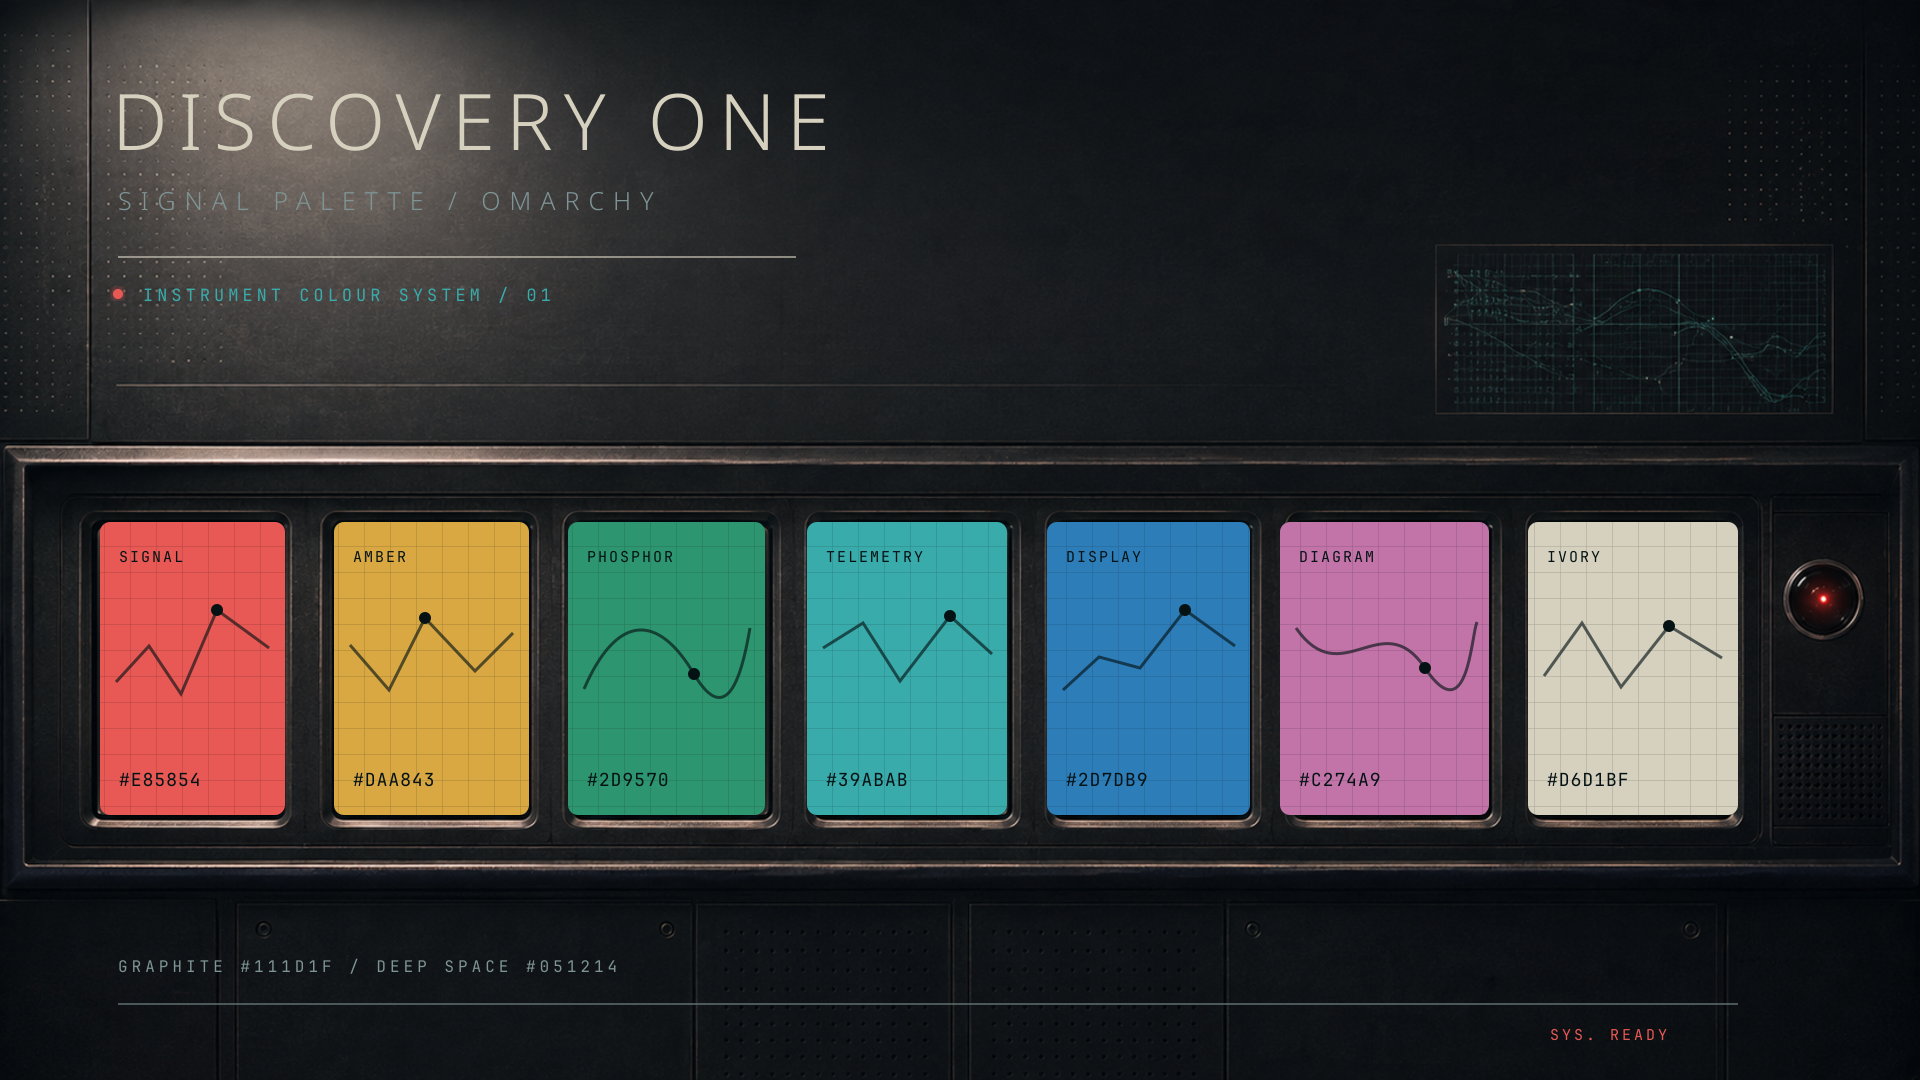
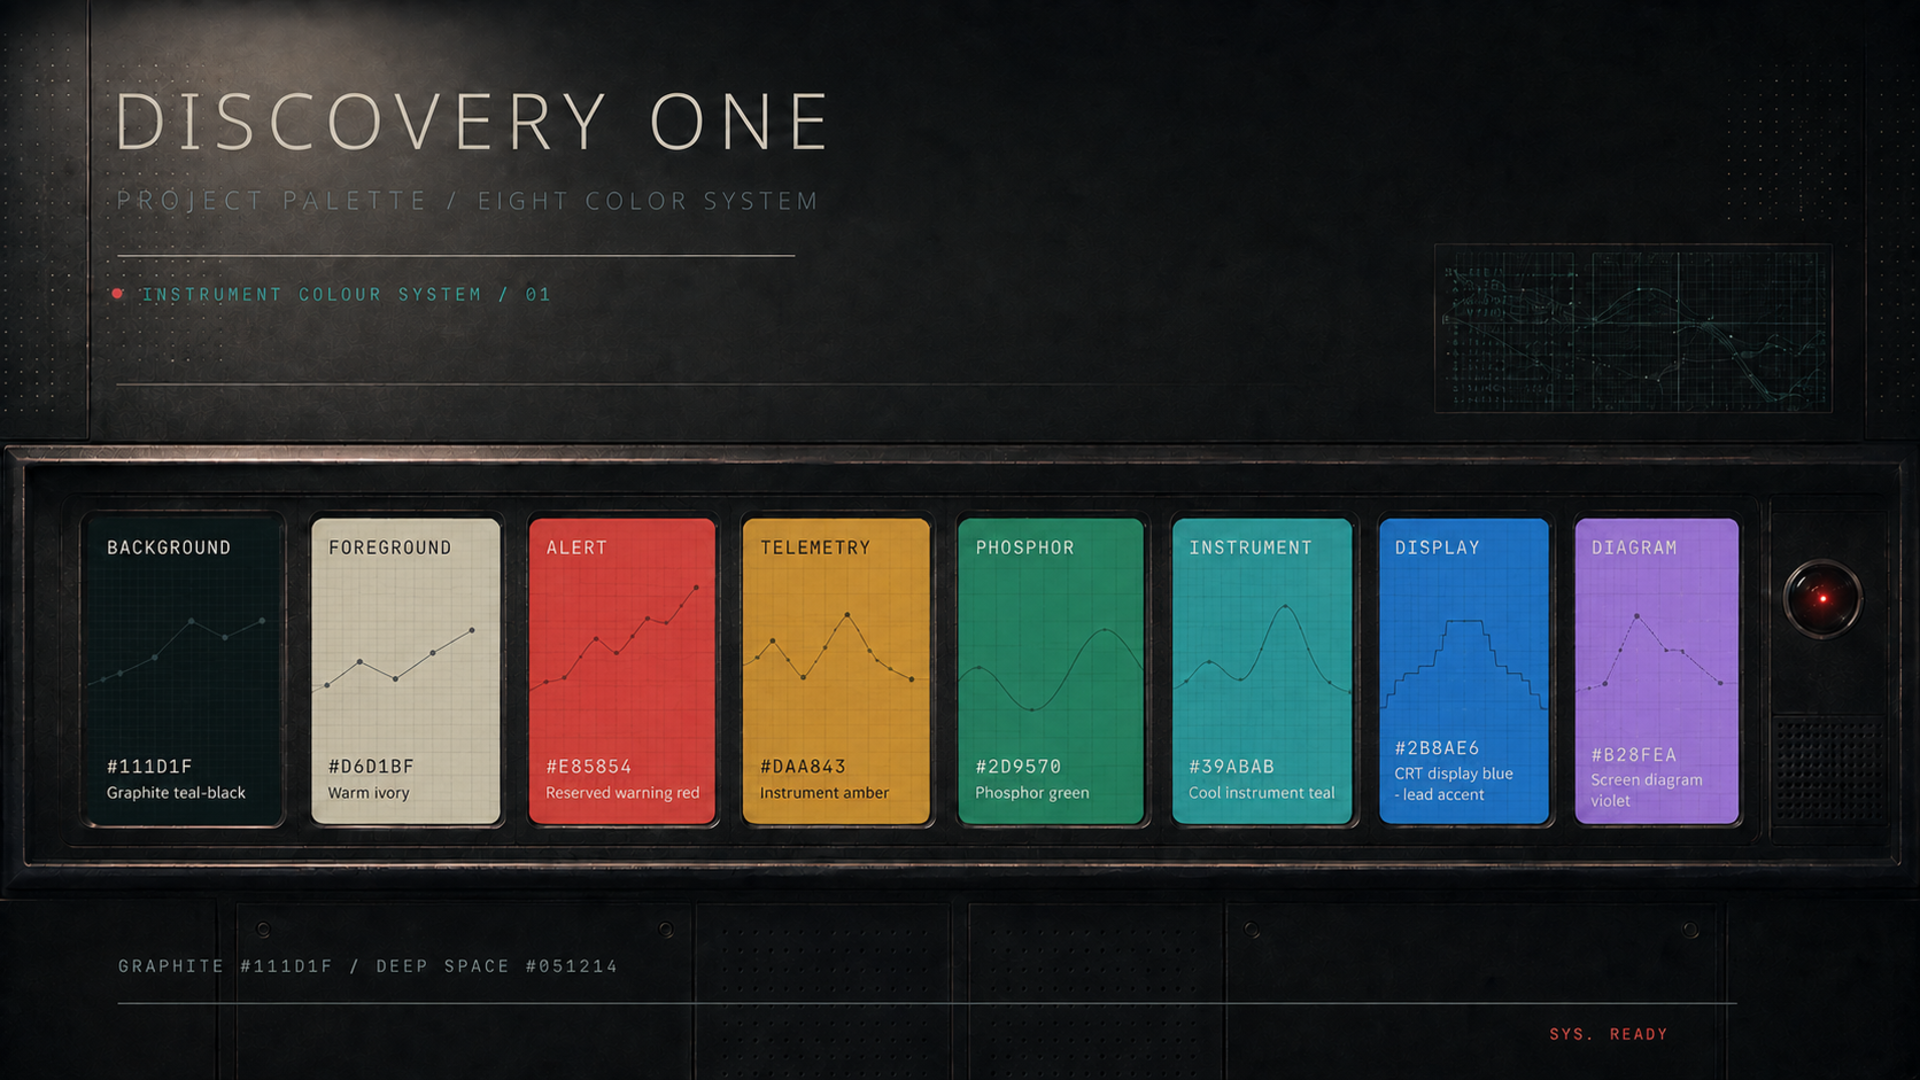
Refine Discovery One spacecraft instrument theme

diff --git a/vencord.theme.css b/vencord.theme.css
@@ -29,6 +29,16 @@ body {
     --window-control-size: 13px;
 
     --custom-dms-icon: hide;
+    --custom-dms-background: color;
+    --dms-background-color: radial-gradient(circle closest-side,
+        #f5f2e7 0 10%,
+        #ff847d 11% 21%,
+        #e85854 22% 36%,
+        #8f3432 37% 53%,
+        #551f1d 54% 70%,
+        #233538 71% 85%,
+        #6b7c7d 86% 94%,
+        #051214 95% 100%);
     --background-image: off;
     --transparency-tweaks: off;
     --remove-bg-layer: off;
@@ -67,7 +77,7 @@ body {
     --accent-2: #39abab;
     --accent-3: #39abab;
     --accent-4: #5ddae0;
-    --accent-5: #2d7db9;
+    --accent-5: #2b8ae6;
     --accent-new: #e85854;
     --mention: linear-gradient(to right, color-mix(in srgb, #daa843 16%, transparent) 40%, transparent);
     --mention-hover: linear-gradient(to right, color-mix(in srgb, #daa843 22%, transparent) 40%, transparent);
@@ -75,7 +85,7 @@ body {
     --online: #2d9570;
     --dnd: #e85854;
     --idle: #daa843;
-    --streaming: #c274a9;
+    --streaming: #b28fea;
     --offline: #6b7c7d;
 
     --text-normal: var(--text-3);
@@ -121,19 +131,19 @@ body {
     --green-5: color-mix(in srgb, #2d9570, #111d1f 34%);
     --blue-1: #5ddae0;
     --blue-2: #39abab;
-    --blue-3: #2d7db9;
-    --blue-4: color-mix(in srgb, #2d7db9, #111d1f 18%);
-    --blue-5: color-mix(in srgb, #2d7db9, #111d1f 34%);
+    --blue-3: #2b8ae6;
+    --blue-4: color-mix(in srgb, #2b8ae6, #111d1f 18%);
+    --blue-5: color-mix(in srgb, #2b8ae6, #111d1f 34%);
     --yellow-1: #f5c25f;
     --yellow-2: #daa843;
     --yellow-3: #daa843;
     --yellow-4: color-mix(in srgb, #daa843, #111d1f 18%);
     --yellow-5: color-mix(in srgb, #daa843, #111d1f 34%);
-    --purple-1: #ea9bc7;
-    --purple-2: #c274a9;
-    --purple-3: #c274a9;
-    --purple-4: color-mix(in srgb, #c274a9, #111d1f 18%);
-    --purple-5: color-mix(in srgb, #c274a9, #111d1f 34%);
+    --purple-1: #d4b8f6;
+    --purple-2: #b28fea;
+    --purple-3: #b28fea;
+    --purple-4: color-mix(in srgb, #b28fea, #111d1f 18%);
+    --purple-5: color-mix(in srgb, #b28fea, #111d1f 34%);
 }
 
 /* Compartmentalized spacecraft surfaces with a quiet telemetry grid in chat. */
@@ -169,21 +179,21 @@ body {
     background-color: #1a292c !important;
 }
 
-/* Channel telemetry: amber means unread, cyan marks the live channel. */
+/* Channel telemetry: violet means unread, cyan marks the live channel. */
 #channels [class*="modeUnread"] [class*="link__"] {
-    background: color-mix(in srgb, #daa843 8%, transparent) !important;
-    box-shadow: inset 2px 0 #daa843;
+    background: color-mix(in srgb, #b28fea 10%, transparent) !important;
+    box-shadow: inset 2px 0 #b28fea;
 }
 
 #channels [class*="modeUnread"] :is([class*="name__"], [class*="icon__"]),
 #channels a[data-list-item-id^="channels___"][class*="modeUnread"] :is([class*="name"], svg) {
-    color: #daa843 !important;
-    fill: #daa843 !important;
+    color: #b28fea !important;
+    fill: #b28fea !important;
     font-weight: 600 !important;
 }
 
 #channels [class*="modeUnread"] [class*="unread_"] {
-    background: #daa843 !important;
+    background: #b28fea !important;
 }
 
 #channels [class*="modeConnected"] [class*="link__"] {
@@ -211,9 +221,9 @@ body {
     opacity: 0;
 }
 
-/* Server telemetry: unread amber, active cyan, direct mentions red. */
+/* Server telemetry: unread violet, active cyan, direct mentions red. */
 [class*="guilds_"] [class*="pill_"] > span[class*="item_"] {
-    background: #daa843 !important;
+    background: #b28fea !important;
 }
 
 [class*="guilds_"] [class*="listItem_"]:has([aria-selected="true"]) [class*="pill_"] > span[class*="item_"] {
@@ -244,14 +254,14 @@ li[class*="mentioned"] {
 :is(div, li)[class*="replying"],
 [id^="chat-messages-"]:has([class*="repliedMessage_"]) {
     background: linear-gradient(90deg, color-mix(in srgb, #39abab 9%, #111d1f), #111d1f 72%) !important;
-    border-left: 2px solid #2d7db9 !important;
+    border-left: 2px solid #2b8ae6 !important;
 }
 
 /* Code reads as a separate instrument display, not another chat bubble. */
 [class*="markup_"] pre {
     background: #051214 !important;
     border: 1px solid color-mix(in srgb, #39abab 28%, transparent) !important;
-    border-left: 3px solid #2d7db9 !important;
+    border-left: 3px solid #2b8ae6 !important;
 }
 
 [class*="markup_"] pre code {

diff --git a/README.md b/README.md
@@ -5,6 +5,17 @@ futurism, and quiet unease of *2001: A Space Odyssey*.
 
 ![Discovery One preview](preview.png)
 
+![Discovery One theme artwork](assets/discovery-one-theme-artwork.png)
+
+## Drive unlock
+
+![Discovery One Plymouth drive unlock](preview-unlock.png)
+
+The matching disk-unlock screen follows Omarchy's standard Plymouth theme
+format. `unlock.png` supplies the centred transparent artwork, while Omarchy
+provides and recolours the password field, lock icon, bullets, and background
+from `colors.toml`.
+
 ## Character
 
 Graphite spacecraft panels, warm ivory text, cool instrument shadows, and one
@@ -30,18 +41,20 @@ theme.
 |---|---|---|
 | Background | `#111d1f` | Graphite teal-black |
 | Foreground | `#d6d1bf` | Warm ivory |
-| Signal | `#e85854` | HAL signal red |
+| Alert | `#e85854` | Reserved warning red |
 | Telemetry | `#daa843` | Instrument amber |
 | Phosphor | `#2d9570` | Phosphor green |
 | Instrument | `#39abab` | Cool instrument teal |
-| Display | `#2d7db9` | CRT display blue |
-| Diagram | `#c274a9` | Diagram magenta |
+| Display | `#2b8ae6` | CRT display blue — lead accent |
+| Diagram | `#b28fea` | Screen diagram violet |
 
 ## Included
 
 ![Discovery One cinematic wallpaper collection](assets/discovery-one-wallpapers-mosaic.png)
 
 - `colors.toml` — Omarchy colour definitions and ANSI terminal palette
+- `unlock.png` and `preview-unlock.png` — Plymouth drive-unlock artwork and
+  Omarchy switcher preview
 - `vencord.theme.css` — compact System24 spacecraft-instrument styling for Vencord/Vesktop
 - `icons.theme` — Yaru icon theme
 - `backgrounds/` — 24 curated 3840×1760 *2001* spacecraft, station, and
@@ -49,12 +62,25 @@ theme.
 - `DESIGN.md` — visual direction and role rules
 - `backgrounds/SOURCES.md` — wallpaper frame references
 
-Discovery One is intentionally quiet: red is reserved for focus and warning,
-while the wallpapers and window layout provide most of the depth.
+Discovery One is intentionally quiet: the display blue carries focus and active
+state, red is reserved for warnings alone, and the wallpapers and window layout
+provide most of the depth.
 
 The Discord stylesheet is applied automatically when the THPM Discord
 integration is enabled. Otherwise, copy `vencord.theme.css` into your Vencord or
 Vesktop themes directory and enable it in Discord's **Settings → Themes**.
+
+## CLIAMP visualizer
+
+The companion [HAL 9000 visualizer](https://github.com/Devis99/cliamp-plugin-hal9000)
+is beat-reactive and follows the active terminal palette.
+
+```bash
+cliamp plugins install Devis99/cliamp-plugin-hal9000
+cliamp plugins trust hal9000
+```
+
+Restart CLIAMP, then select it with `cliamp vis HAL9000`.
 
 ## Image credits
 

diff --git a/DESIGN.md b/DESIGN.md
@@ -14,9 +14,11 @@ or like a generic black-and-red hacker theme.
 ## Visual thesis
 
 The desktop is a spacecraft at the edge of the void: graphite panels, cool
-blue-green instrument shadows, warm ivory text, phosphor display colours, and
-one red indicator light. The red is a signal, not wallpaper. The sparse palette
-leaves room for windows and wallpapers to provide depth.
+blue-green instrument shadows, warm ivory text, and the saturated blue of the
+ship's own display screens. The film's consoles read blue first, violet and
+cyan second; the theme follows them. Red is held back for alerts and errors
+alone. The sparse palette leaves room for windows and wallpapers to provide
+depth.
 
 ## Roles
 
@@ -26,11 +28,11 @@ leaves room for windows and wallpapers to provide depth.
 | Surfaces | Slightly lighter molded-panel grey |
 | Text | Warm spacecraft ivory |
 | Muted text | Cool instrument-panel blue-grey |
-| Lead accent | HAL-like signal red for focus and active state |
+| Lead accent | CRT display blue for focus and active state |
 | Support | Muted amber for secondary information |
 | ANSI blue/cyan | Phosphor display colours, kept inside the screen language |
 | Terminal surfaces | Screen-black teal, with mint/green information text |
-| Warning/error | Red; reserve it so it keeps its authority |
+| Warning/error | Red, and nothing else; reserve it so it keeps its authority |
 
 ## Terminal direction
 
@@ -55,4 +57,6 @@ redistributed.
 - Do not use pure black everywhere; the blue-green graphite is part of the
   material.
 - Do not turn the whole interface red.
+- Do not promote red back into ordinary state (selection, hover, active module);
+  those belong to the display blue.
 - Keep text contrast readable even when preserving the soft, spacious feel.
